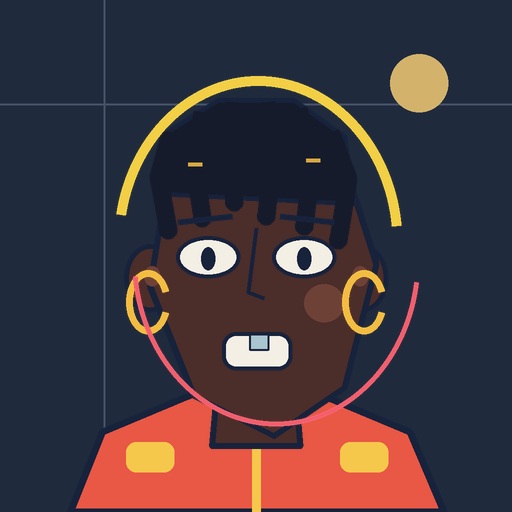
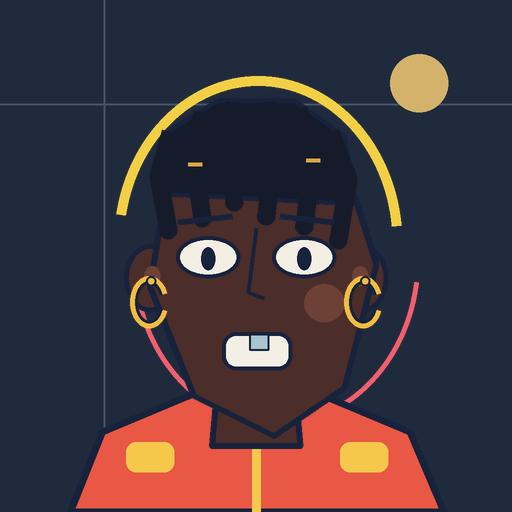
Refine Street Heirs jewelry and layering
Clean up necklace and jewelry construction while moving framing signals behind portraits so accessories and character silhouettes remain unobstructed.

diff --git a/src/data/street-heirs-traits.ts b/src/data/street-heirs-traits.ts
@@ -2,6 +2,8 @@
 
 export const streetHeirsStack = ["atmosphere", "tailoring", "complexion", "coiffure", "visage", "cadence", "adornment", "signal"] as const;
 
+export const streetHeirsBackSignals = ["double-exposure", "offset-halo", "orbit-lines", "prism-slice", "sound-wave", "type-bars"] as const;
+
 export const streetHeirsTraits = {
   "atmosphere": [
     {

diff --git a/scripts/build_street_heirs.py b/scripts/build_street_heirs.py
@@ -24,8 +24,8 @@ SUBJECT = "Editorial-vector streetwear portraits with graphic signals"
 CHAIN = "Robinhood Chain"
 SUPPLY = 5_555
 MINT_PRICE = "0.005 ETH"
-ART_VERSION = "prototype-5"
-SEED = "street-heirs/clean-cartoon/v5"
+ART_VERSION = "prototype-6"
+SEED = "street-heirs/clean-cartoon/v6"
 
 ROOT = Path(__file__).resolve().parents[1]
 TRAIT_ROOT = ROOT / "public" / f"{SLUG}-traits"
@@ -154,6 +154,17 @@ INCOMPATIBLE = (
     (("visage", "future-visor"), ("adornment", "studio-cans")),
     (("visage", "amber-shades"), ("signal", "halftone-veil")),
     (("tailoring", "heavy-hoodie"), ("adornment", "curb-chain")),
+)
+
+BACK_SIGNAL_TRAITS = frozenset(
+    {
+        "offset-halo",
+        "type-bars",
+        "orbit-lines",
+        "prism-slice",
+        "sound-wave",
+        "double-exposure",
+    }
 )
 
 SIGNATURES = (
@@ -508,23 +519,34 @@ def paint_adornment(trait: str) -> Image.Image:
     gold = "#f3bd42"
     silver = "#c6d5dc"
     if trait == "gold-hoops":
-        for coords in ((126, 270, 170, 334), (342, 270, 386, 334)):
-            draw.arc(box(coords), 20, 340, fill=gold, width=width(7))
+        for coords, stud_x in (((130, 276, 168, 328), 146), ((344, 276, 382, 328), 360)):
+            draw.arc(box(coords), 20, 340, fill=INK, width=width(8))
+            draw.arc(box(coords), 20, 340, fill=gold, width=width(5))
+            ellipse(draw, (stud_x, 276, stud_x + 10, 286), gold, INK, 2)
     elif trait == "silver-studs":
-        ellipse(draw, (138, 282, 160, 304), silver, INK, 3)
-        ellipse(draw, (352, 282, 374, 304), silver, INK, 3)
+        for x in (140, 354):
+            ellipse(draw, (x, 284, x + 18, 302), silver, INK, 3)
+            ellipse(draw, (x + 5, 288, x + 10, 293), PAPER)
     elif trait == "curb-chain":
-        for x in range(182, 330, 30):
-            draw.arc(box((x, 402 + abs(256 - x) // 8, x + 38, 440 + abs(256 - x) // 8)), 0, 360, fill=gold, width=width(6))
+        links = ((174, 400), (202, 410), (230, 418), (258, 418), (286, 410), (314, 400))
+        for x, y in links:
+            coords = box((x, y, x + 38, y + 25))
+            draw.ellipse(coords, outline=INK, width=width(9))
+            draw.ellipse(coords, outline=gold, width=width(5))
+        ellipse(draw, (250, 434, 264, 448), gold, INK, 2)
     elif trait == "pearl-line":
-        for x in range(184, 338, 28):
-            y = 406 + abs(256 - x) // 7
-            ellipse(draw, (x, y, x + 19, y + 19), PAPER, INK, 2)
+        pearls = ((184, 404), (211, 414), (240, 420), (270, 420), (299, 414), (326, 404))
+        line(draw, [(192, 412), (220, 423), (250, 429), (280, 429), (308, 423), (335, 412)], INK, 4)
+        for x, y in pearls:
+            ellipse(draw, (x, y, x + 20, y + 20), PAPER, INK, 3)
+            ellipse(draw, (x + 5, y + 4, x + 10, y + 9), "#ffffff")
     elif trait == "nose-ring":
-        draw.arc(box((260, 288, 292, 330)), 300, 110, fill=gold, width=width(6))
+        draw.arc(box((262, 292, 290, 326)), 300, 110, fill=INK, width=width(7))
+        draw.arc(box((262, 292, 290, 326)), 300, 110, fill=gold, width=width(4))
     elif trait == "ear-cuff":
-        for y in (264, 282, 300):
-            draw.arc(box((346, y, 382, y + 32)), 80, 282, fill=silver, width=width(5))
+        for y in (272, 294):
+            draw.arc(box((348, y, 380, y + 28)), 80, 282, fill=INK, width=width(7))
+            draw.arc(box((348, y, 380, y + 28)), 80, 282, fill=silver, width=width(4))
     elif trait == "studio-cans":
         draw.arc(box((116, 174, 396, 342)), 184, 356, fill=INK, width=width(12))
         rounded(draw, (114, 240, 164, 334), 18, "#ef6b4c", INK, 5)
@@ -618,7 +640,11 @@ def compatible(combo: dict[str, str]) -> bool:
 
 def compose(combo: dict[str, str]) -> Image.Image:
     canvas = Image.new("RGBA", (SIZE, SIZE), (0, 0, 0, 0))
-    for category in STACK:
+    if combo["signal"] in BACK_SIGNAL_TRAITS:
+        order = ("atmosphere", "signal", *STACK[1:-1])
+    else:
+        order = STACK
+    for category in order:
         with Image.open(trait_path(category, combo[category])) as plate:
             canvas.alpha_composite(plate.convert("RGBA"))
     return canvas
@@ -640,6 +666,10 @@ def write_manifest() -> None:
             "size": [SIZE, SIZE],
         },
         "stack": list(STACK),
+        "signal_placement": {
+            trait_id: "behind-character" if trait_id in BACK_SIGNAL_TRAITS else "foreground"
+            for trait_id, _, _ in TRAIT_SPEC["signal"]
+        },
         "traits": {
             category: [
                 {"id": trait_id, "name": name, "weight": weight_value}
@@ -675,6 +705,7 @@ def write_trait_catalog() -> None:
     source = (
         "// Generated by scripts/build_street_heirs.py. Do not edit by hand.\n\n"
         f"export const streetHeirsStack = {json.dumps(STACK)} as const;\n\n"
+        f"export const streetHeirsBackSignals = {json.dumps(sorted(BACK_SIGNAL_TRAITS))} as const;\n\n"
         f"export const streetHeirsTraits = {payload} as const;\n\n"
         f"export const streetHeirsPlannedSupply = {SUPPLY};\n"
         f"export const streetHeirsChain = {json.dumps(CHAIN)};\n"

diff --git a/docs/street-heirs.md b/docs/street-heirs.md
@@ -27,6 +27,8 @@ fields, type bars, prisms, waveform marks, and translucent color exposures. Repe
 details are intentionally sparse so the face, hairstyle, and clothing silhouette
 remain dominant at avatar size. Backgrounds use muted solid fields with one restrained
 motif—such as a disc, rule, panel, or arc—to keep the overall set simple and elegant.
+Jewelry uses outlined, evenly spaced links and pearls with small controlled highlights
+so necklaces remain readable instead of merging into a single decorative band.
 
 The system is intentionally separate from previous collection painters. It does not
 reuse their skeletons, palettes, materials, motion, or trait-layer names.
@@ -44,6 +46,10 @@ The stack is composited in this order:
 7. `adornment` — jewelry and audio accessories
 8. `signal` — foreground graphic marks
 
+Signal placement varies by intent. Halftone, crop, pixel, and corner accents remain in
+front. Halos, type bars, orbit lines, prism slices, waveforms, and translucent exposure
+panels are composited directly behind the character.
+
 The prototype contains 70 transparent 512×512 trait plates and 16 curated signatures.
 Weights in `public/street-heirs-traits/manifest.json` express relative selection
 probability; they are not final rarity percentages.
@@ -59,8 +65,8 @@ hoodie with a curb chain. The painter validates every signature before rendering
 The art version and seed are:
 
 ```text
-prototype-5
-street-heirs/clean-cartoon/v5
+prototype-6
+street-heirs/clean-cartoon/v6
 ```
 
 Generate the prototype from the repository root:
